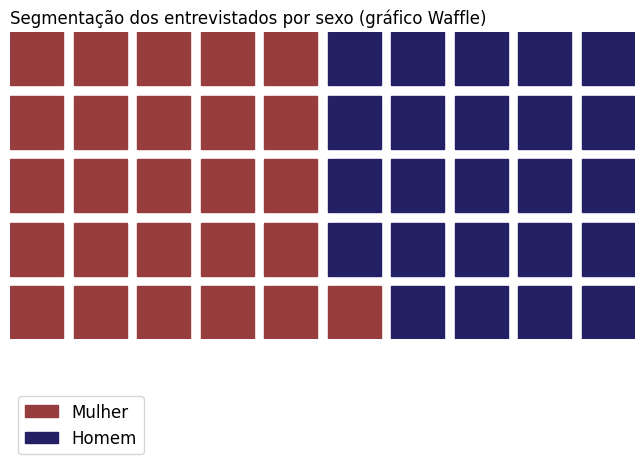
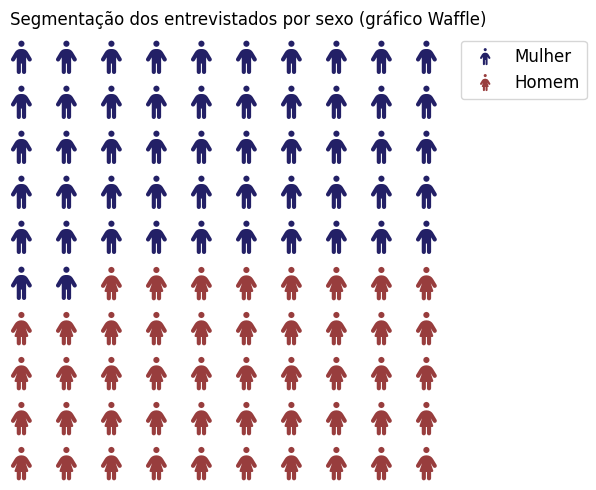
feat(analise): avanços na aba demografica

diff --git a/tabs/analise/analise_demografica_tab.py b/tabs/analise/analise_demografica_tab.py
@@ -3,29 +3,177 @@ from tabs.tab import TabInterface
 import plotly.graph_objs as go
 import pandas as pd
 
+
 class AnaliseDemograficaTab(TabInterface):
     def __init__(self, tab):
         self.tab = tab
         self.render()
-    
+
     def render(self):
         with self.tab:
-            st.subheader(':blue[Análise demográfica]', divider='blue')
+            st.subheader(":blue[Análise demográfica]", divider="blue")
 
-            st.markdown('''
-                **:blue[Por sexo]**
-            ''')
+            with st.container():
+                st.markdown(
+                    """
+                    **:blue[Por sexo]**
+                """
+                )
 
-            sexo_cores = ["#983D3D", "#232066"]
-            df_pnad_sexo = pd.read_csv('assets/segmentacoes/segmentacao-sexo.csv')
+                sexo_cores = ["#983D3D", "#232066"]
+                df_pnad_sexo = pd.read_csv("assets/segmentacoes/segmentacao-sexo.csv")
 
-            col1, col2 = st.columns([1, 1])
+                col1, col2 = st.columns([1, 1])
 
-            with col1:
+                with col1:
+                    fig = go.Figure()
+                    fig.add_trace(
+                        go.Pie(
+                            labels=df_pnad_sexo.nome,
+                            values=df_pnad_sexo.total,
+                            hole=0.65,
+                            marker=dict(colors=sexo_cores),
+                        )
+                    )
+                    fig.update_layout(
+                        title="Segmentação dos entrevistados por sexo", width=500
+                    )
+                    st.plotly_chart(fig)
+
+                with col2:
+                    st.image(
+                        "assets/img/analise-segmentacao-sexo-1.png",
+                        caption="Gráfico de waffle",
+                    )
+
+            with st.container():
+                st.markdown(
+                    """
+                    **:blue[Por UF]**
+                """
+                )
+
+                df_pnad_uf = pd.read_csv("assets/segmentacoes/segmentacao-uf.csv")
+
                 fig = go.Figure()
-                fig.add_trace(go.Pie(labels=df_pnad_sexo.nome, values=df_pnad_sexo.total, hole=.65, marker=dict(colors=sexo_cores)))
-                fig.update_layout(title='Segmentação dos entrevistados por sexo', width=400)
+                fig.add_trace(
+                    go.Bar(x=df_pnad_uf.nome.tolist(), y=df_pnad_uf.total.tolist())
+                )
+                fig.update_layout(title="Segmentação dos entrevistados por UF")
+                fig.update_layout(xaxis=dict(tickangle=-45))
                 st.plotly_chart(fig)
 
-            with col2:
-                st.image('assets/img/analise-segmentacao-sexo-1.png', caption='Gráfico de waffle')
+            with st.container():
+                st.markdown(
+                    """
+                    **:blue[Por região metropolitana]**
+                """
+                )
+
+                df_pnad_regiao_metropolitana = pd.read_csv(
+                    "assets/segmentacoes/segmentacao-regiao-metropolitana.csv"
+                )
+
+                fig = go.Figure()
+                fig.add_trace(
+                    go.Bar(
+                        x=df_pnad_regiao_metropolitana.nome.tolist(),
+                        y=df_pnad_regiao_metropolitana.total.tolist(),
+                    )
+                )
+                fig.update_layout(
+                    title="Segmentação dos entrevistados por região metropolitana",
+                    height=800,
+                )
+                fig.update_layout(xaxis=dict(tickangle=-45))
+                st.plotly_chart(fig)
+
+            with st.container():
+                st.markdown(
+                    """
+                    **:blue[Por escolaridade]**
+                """
+                )
+
+                df_pnad_escolaridade = pd.read_csv(
+                    "assets/segmentacoes/segmentacao-escolaridade.csv"
+                )
+
+                col1, _, col2 = st.columns([0.4, 0.1, 0.5])
+
+                with col1:
+                    fig = go.Figure()
+                    fig.add_trace(
+                        go.Bar(
+                            x=df_pnad_escolaridade.nome.tolist(),
+                            y=df_pnad_escolaridade.total.tolist(),
+                        )
+                    )
+                    fig.update_layout(
+                        title="Segmentação dos entrevistados por escolaridade"
+                    )
+                    fig.update_layout(xaxis=dict(tickangle=-45), width=600)
+                    st.plotly_chart(fig)
+
+                with col2:
+                    st.image(
+                        "assets/img/analise-segmentacao-escolaridade-1.png",
+                        caption="Gráfico de waffle",
+                    )
+
+            with st.container():
+                st.markdown(
+                    """
+                    **:blue[Por faixa etária]**
+                """
+                )
+
+                df_pnad_idade = pd.read_csv("assets/segmentacoes/segmentacao-idade.csv")
+                faixas_etarias = df_pnad_idade.nome.values.astype(str)
+                populacao = df_pnad_idade.total.values
+
+                fig = go.Figure(go.Bar(x=populacao, y=faixas_etarias, orientation="h"))
+
+                fig.update_layout(
+                    title="Segmentação dos entrevistados por faixa etária",
+                    xaxis_title="Número de indivíduos",
+                    yaxis_title="Faixas etárias",
+                    height=400,
+                    width=600,
+                )
+
+                st.plotly_chart(fig)
+
+            with st.container():
+                st.markdown(
+                    """
+                    **:blue[Por plano de saúde]**
+                """
+                )
+
+                df_pnad_plano_saude = pd.read_csv(
+                    "assets/segmentacoes/segmentacao-plano-saude.csv"
+                )
+
+                col1, _, col2 = st.columns([0.4, 0.1, 0.5])
+
+                with col1:
+                    fig = go.Figure()
+                    fig.add_trace(
+                        go.Pie(
+                            labels=df_pnad_plano_saude.nome,
+                            values=df_pnad_plano_saude.total,
+                            hole=0.65,
+                        )
+                    )
+                    fig.update_layout(
+                        title="Segmentação dos entrevistados por plano de saúde",
+                        width=500,
+                    )
+                    st.plotly_chart(fig)
+
+                with col2:
+                    st.image(
+                        "assets/img/analise-segmentacao-plano-saude-1.png",
+                        caption="Gráfico de waffle",
+                    )

diff --git a/pages/refs.py b/pages/refs.py
@@ -20,6 +20,8 @@ with st.container():
     - https://dbdiagram.io/d
     - https://dbml.dbdiagram.io/docs/
     - https://app.diagrams.net/
-    https://cloud.google.com/bigquery/docs/kmeans-tutorial?hl=pt-br
-                https://xgboost.readthedocs.io/en/stable/index.html
+    - https://cloud.google.com/bigquery/docs/kmeans-tutorial?hl=pt-br
+    - https://xgboost.readthedocs.io/en/stable/index.html
+    - https://python-charts.com/part-whole/waffle-chart-matplotlib/
+    - https://fontawesome.com/search?o=r&m=free
     ''')
